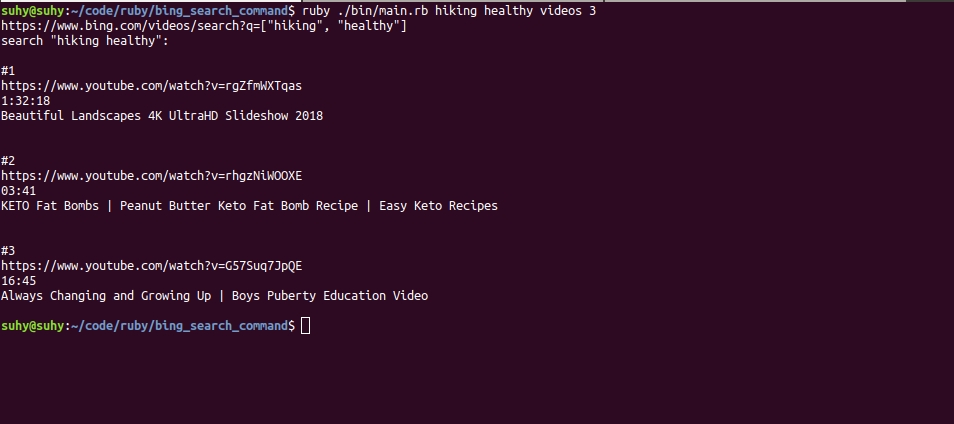
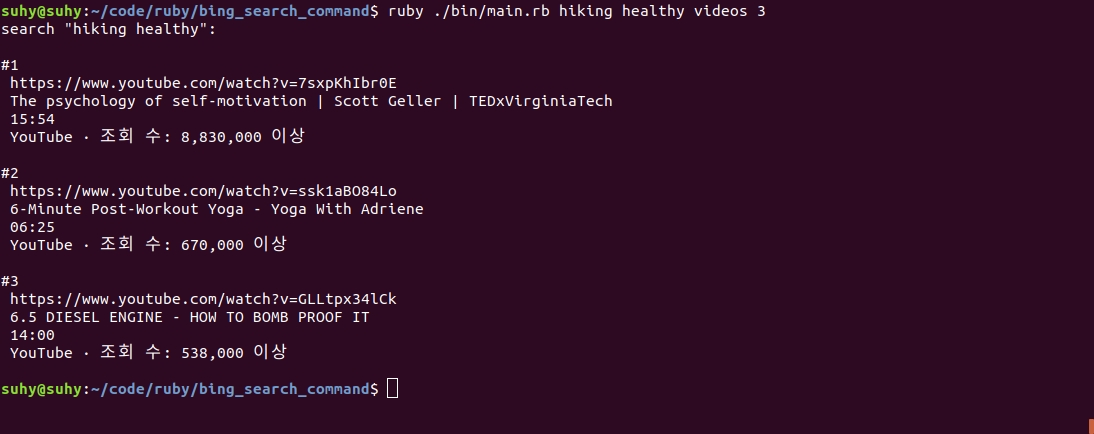
Update uses of Parse inheritance, update video parse with right css

diff --git a/lib/ui_controller.rb b/lib/ui_controller.rb
@@ -6,11 +6,11 @@ require_relative './parse_all.rb'
 module UiController
   class << self
     def print_title(word)
-      print "search \"#{word}\": \n"
+      puts "search \"#{word}\": "
     end
 
     def print_count_over(list_count, max_count, type)
-      print list_count > max_count ? "\nThe #{type} results can be showing only #{max_count} \n" : ""
+      puts list_count > max_count ? "\nThe #{type} results can be showing only #{max_count} " : ""
     end
 
     def print_for_images(raw_data, search_count)
@@ -24,7 +24,7 @@ module UiController
     def print_for_videos(raw_data, search_count)
       parsed_data = ParseVideos.new(raw_data, [search_count, VIDEO_SEARCH_MAX].min)
       parsed_data.result().each_with_index do |result, i|
-        puts "\n##{i+1}", "#{result[:link]}", "#{result[:image]}", "#{result[:title]}", "#{result[:description]}"
+        puts "\n##{i+1}\n #{result[:link]}\n #{result[:title]}\n #{result[:duration]}\n #{result[:views]}"
       end
       print_count_over(search_count, VIDEO_SEARCH_MAX, 'videos')
     end

diff --git a/lib/parse_videos.rb b/lib/parse_videos.rb
@@ -1,13 +1,9 @@
 # frozen_string_literal: true
-require_relative './parse_common.rb'
+require_relative './parse.rb'
 
-class ParseVideos
-  attr_accessor :page
-  attr_reader :count, :raw_data
-
+class ParseVideos < Parse
   def initialize(raw_data, count)
-    @raw_data = raw_data
-    @count = count
+    super
   end
 
   def result
@@ -16,13 +12,10 @@ class ParseVideos
     common_page = page.css('body #b_content .resultContainer')
     datas_list.each_index do |i|
       datas_list[i][:link] = common_page.css('.meta-row-1 a')[i]['href']
-      datas_list[i][:image] = common_page.css('.meta-row-1 .duration')[i].content
-      datas_list[i][:title] = common_page.css('.cico a')[i]['title']
+      datas_list[i][:title] = common_page.css('.title a span')[i]['title']
+      datas_list[i][:duration] = common_page.css('.meta-row-1 a .duration')[i].content
+      datas_list[i][:views] = common_page.css('.meta-row-2')[i].css('span')[1].content
     end
     datas_list
-  end
-
-  def page
-    @page ||= Nokogiri::HTML(raw_data)
   end
 end

diff --git a/lib/parse_all.rb b/lib/parse_all.rb
@@ -1,15 +1,11 @@
 # frozen_string_literal: true
-require_relative './parse_common.rb'
+require_relative './parse.rb'
 
-class ParseAll
-  attr_accessor :page
-  attr_reader :count, :raw_data
-
+class ParseAll < Parse
   IMAGE_LOCATION = 3
 
   def initialize(raw_data, count)
-    @raw_data = raw_data
-    @count = count
+    super
   end
 
   def result
@@ -17,10 +13,6 @@ class ParseAll
     datas = text_result
 
     datas[0...IMAGE_LOCATION] + image_result + datas[IMAGE_LOCATION..-1]
-  end
-
-  def page
-    @page ||= Nokogiri::HTML(raw_data)
   end
 
   private

diff --git a/lib/parse_images.rb b/lib/parse_images.rb
@@ -1,13 +1,9 @@
 # frozen_string_literal: true
-require_relative './parse_common.rb'
+require_relative './parse.rb'
 
-class ParseImages
-  attr_accessor :page
-  attr_reader :count, :raw_data
-
+class ParseImages < Parse
   def initialize(raw_data, count)
-    @raw_data = raw_data
-    @count = count
+    super
   end
 
   def result
@@ -19,9 +15,5 @@ class ParseImages
       datas_list[i][:image] = common_page.css('img')[i]['src']
     end
     datas_list
-  end
-
-  def page
-    @page ||= Nokogiri::HTML(raw_data)
   end
 end

diff --git a/lib/parse.rb b/lib/parse.rb
@@ -1,0 +1,17 @@
+require 'rubygems'
+require 'nokogiri'
+require_relative './variables'
+
+class Parse
+  attr_accessor :page
+  attr_reader :count, :raw_data
+
+  def initialize(raw_data, count)
+    @raw_data = raw_data
+    @count = count
+  end
+
+  def page
+    @page ||= Nokogiri::HTML(raw_data)
+  end
+end

diff --git a/bin/main.rb b/bin/main.rb
@@ -35,6 +35,7 @@ class BingSearch
 
   def print_parsed_data
     UiController.print_title(search_keywords.join(' '))
+
     case search_type
     when 'images'
       UiController.print_for_images(raw_data, search_count)
